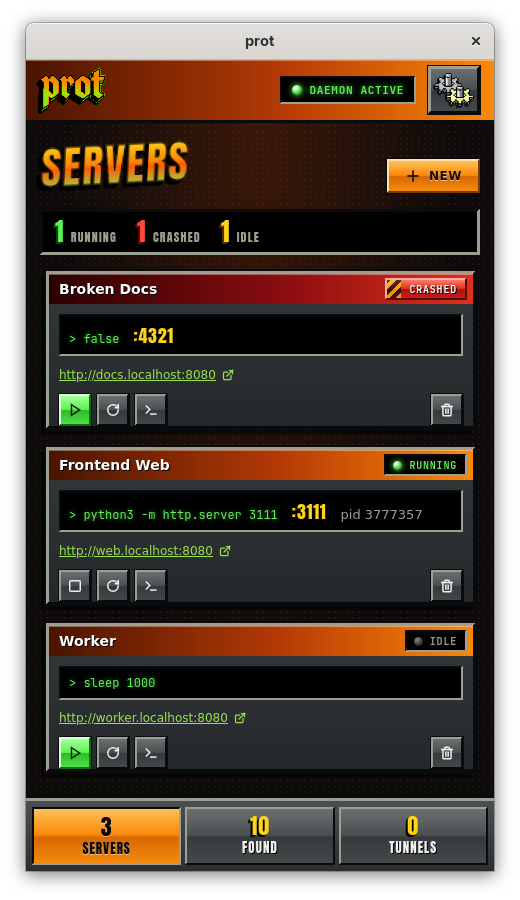
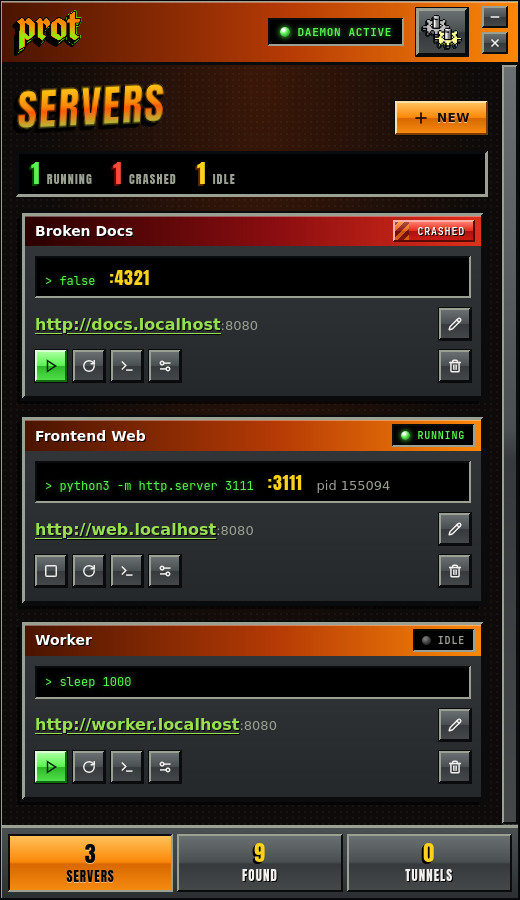
docs: wordmark-only README header, one-line tagline and a fresh screenshot

diff --git a/README.md b/README.md
@@ -1,9 +1,10 @@
 <h1 align="center">
-  <img src="docs/assets/prot-logo.png" alt="prot" width="420" />
+  <img src="docs/assets/prot-logo.png" alt="prot" width="320" />
 </h1>
 
-> **Your development servers, under control.**  
-> Local-first · Cross-platform ambition · Agent-native · Open API
+<p align="center">
+  <b>Stable <code>.localhost</code> URLs and one control plane for all your development servers.</b>
+</p>
 
 Prot is a local-first developer utility and control plane that discovers, organizes, routes, and manages development services, whether they run locally or through remote SSH connections.
 
